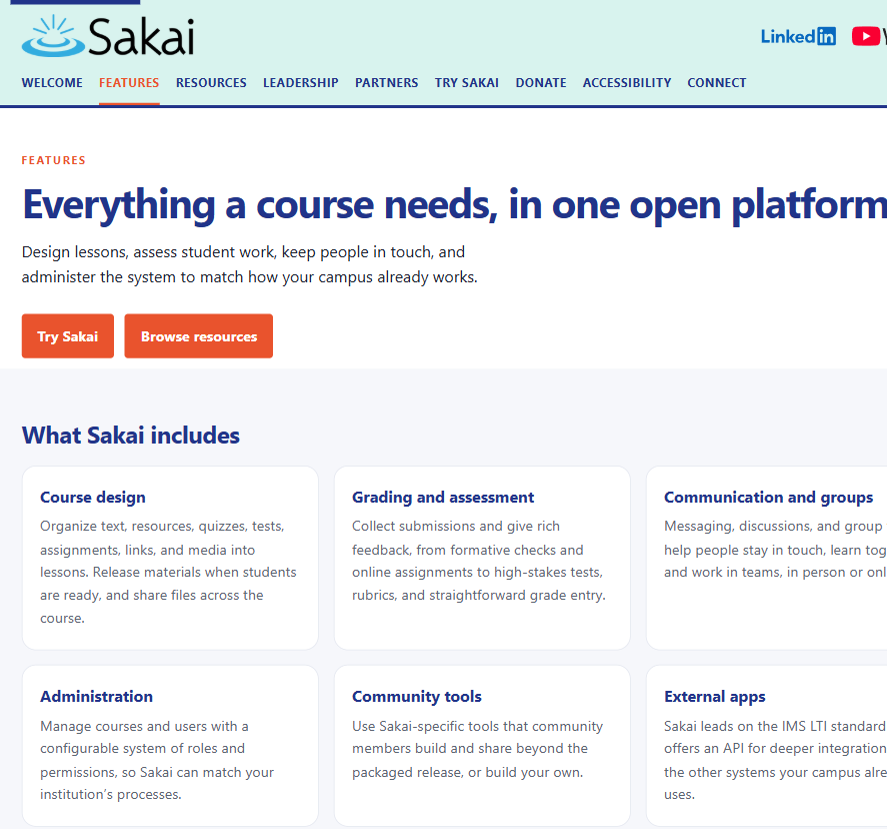
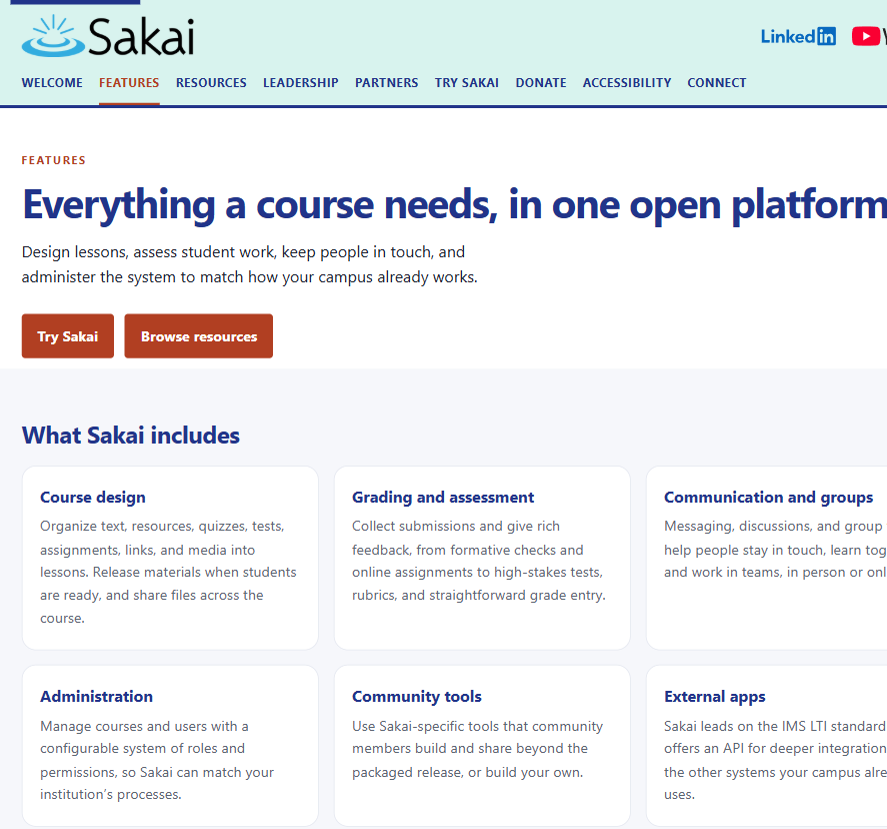
Darken the site orange so text meets contrast guidelines.

Changed region(s): [[0.0, 0.3619, 0.3348, 0.4524], [0.1218, 0.0905, 0.1826, 0.1206], [0.0304, 0.1809, 0.0913, 0.2111]]

diff --git a/css/site.css b/css/site.css
@@ -2,7 +2,7 @@
 :root {
   --navy: #25318d;
   --blue: #384ad3;
-  --orange: #ed5829;
+  --orange: #b4431f;
   --mint: #d7f3ee;
   --ink: #1d2130;
   --muted: #5c6573;
